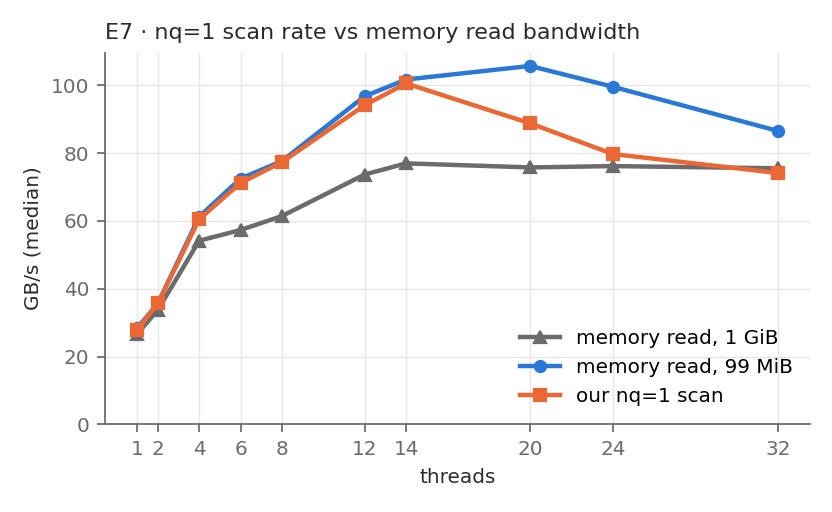
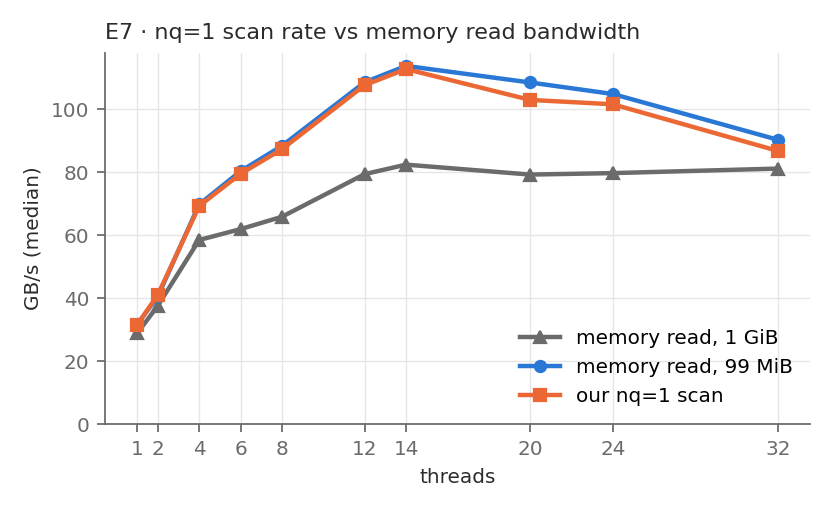
i9-14900HX E7 Results

diff --git a/results/i9-14900hx/summary.md b/results/i9-14900hx/summary.md
@@ -246,15 +246,15 @@ Median of 5 rounds (range), GB/s = 10^9 bytes/s. Scan rate = packed database byt
 
 | T | read 1 GiB | read 99 MiB | our nq=1 scan | scan / read 1 GiB | scan / read 99 MiB |
 |---|---|---|---|---|---|
-| 1 | 26.6 (26.6–27.0) | 28.4 (28.0–28.6) | 27.9 (27.8–28.2) | 105% | 98% |
-| 2 | 33.7 (33.7–33.9) | 35.7 (35.4–36.0) | 35.7 (35.2–35.8) | 106% | 100% |
-| 4 | 54.2 (53.0–54.4) | 61.3 (61.2–61.6) | 60.5 (58.7–61.3) | 112% | 99% |
-| 6 | 57.3 (57.2–57.7) | 72.5 (70.5–73.4) | 71.2 (67.2–71.5) | 124% | 98% |
-| 8 | 61.5 (61.3–62.2) | 77.7 (75.7–81.3) | 77.4 (76.8–78.7) | 126% | 100% |
-| 12 | 73.7 (73.1–74.3) | 96.8 (94.3–98.3) | 94.2 (93.6–94.9) | 128% | 97% |
-| 14 | 77.0 (76.2–77.2) | 101.7 (94.8–105.2) | 100.6 (96.4–102.1) | 131% | 99% |
-| 20 | 75.8 (75.1–76.0) | 105.7 (100.9–108.2) | 88.8 (79.1–96.0) | 117% | 84% |
-| 24 | 76.2 (75.6–76.8) | 99.6 (80.4–110.0) | 79.8 (76.4–91.6) | 105% | 80% |
-| 32 | 75.5 (74.1–76.4) | 86.5 (77.2–96.5) | 74.1 (55.8–81.8) | 98% | 86% |
+| 1 | 28.9 (28.5–29.0) | 31.7 (31.4–31.9) | 31.6 (31.4–31.8) | 109% | 100% |
+| 2 | 37.6 (37.2–37.8) | 40.6 (40.4–40.9) | 41.1 (40.0–41.4) | 109% | 101% |
+| 4 | 58.5 (58.2–59.3) | 69.8 (68.4–70.2) | 69.3 (67.9–70.2) | 118% | 99% |
+| 6 | 62.0 (61.7–62.2) | 80.3 (79.7–80.6) | 79.5 (78.9–79.8) | 128% | 99% |
+| 8 | 65.9 (65.3–66.0) | 88.4 (87.3–89.4) | 87.3 (79.0–88.4) | 133% | 99% |
+| 12 | 79.4 (78.9–80.2) | 108.6 (103.7–109.5) | 107.7 (106.4–108.1) | 136% | 99% |
+| 14 | 82.4 (82.0–82.5) | 113.8 (110.1–114.7) | 112.8 (111.5–113.3) | 137% | 99% |
+| 20 | 79.3 (79.0–79.6) | 108.5 (103.1–111.6) | 103.0 (102.6–104.5) | 130% | 95% |
+| 24 | 79.7 (79.4–80.6) | 104.9 (102.8–107.1) | 101.6 (100.5–102.3) | 127% | 97% |
+| 32 | 81.2 (77.7–81.8) | 90.3 (84.5–103.3) | 86.7 (78.8–98.4) | 107% | 96% |
 
-In-cache scan: not reported. These rows were written by an older knn_bench that rounded times to whole µs, and one search takes ~13 µs (±7% per step); rerun E7.
+In-cache scan (2000 rows, fits L2), 1 thread: 93.2 GB/s (92.1–93.9); one search takes 10.99–11.21 µs.
